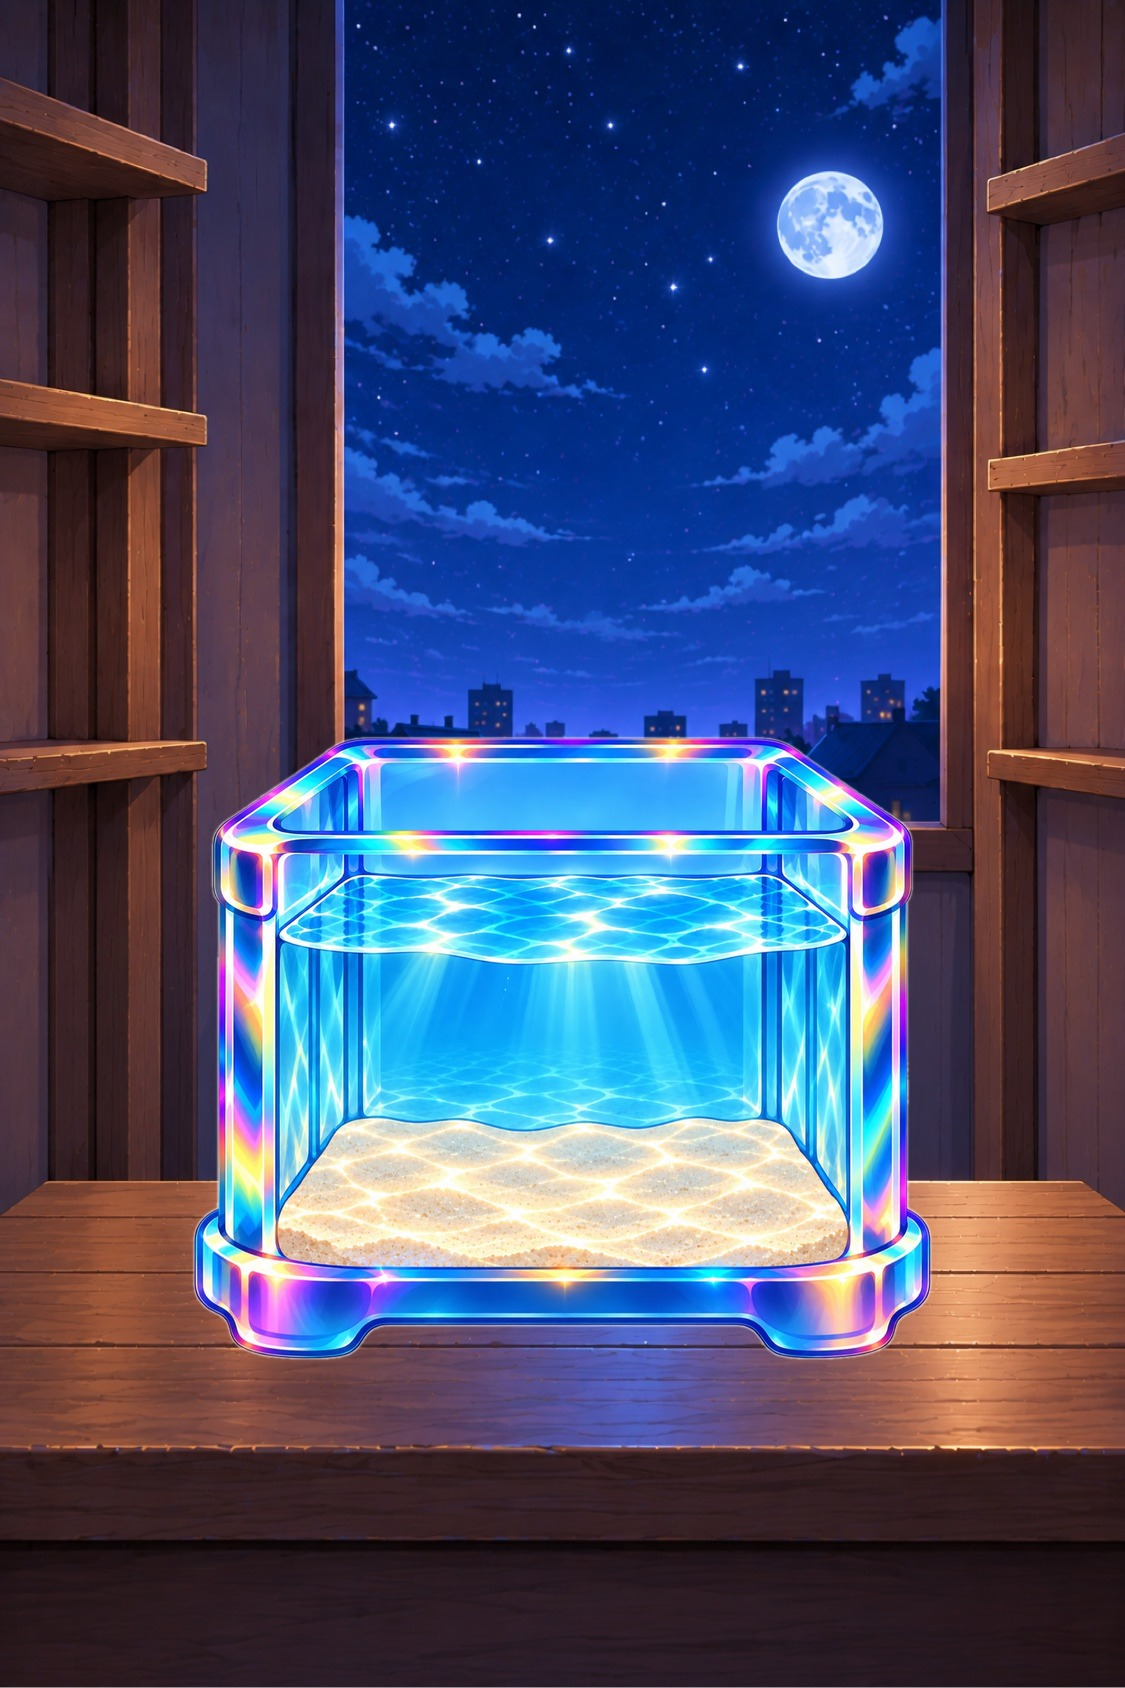
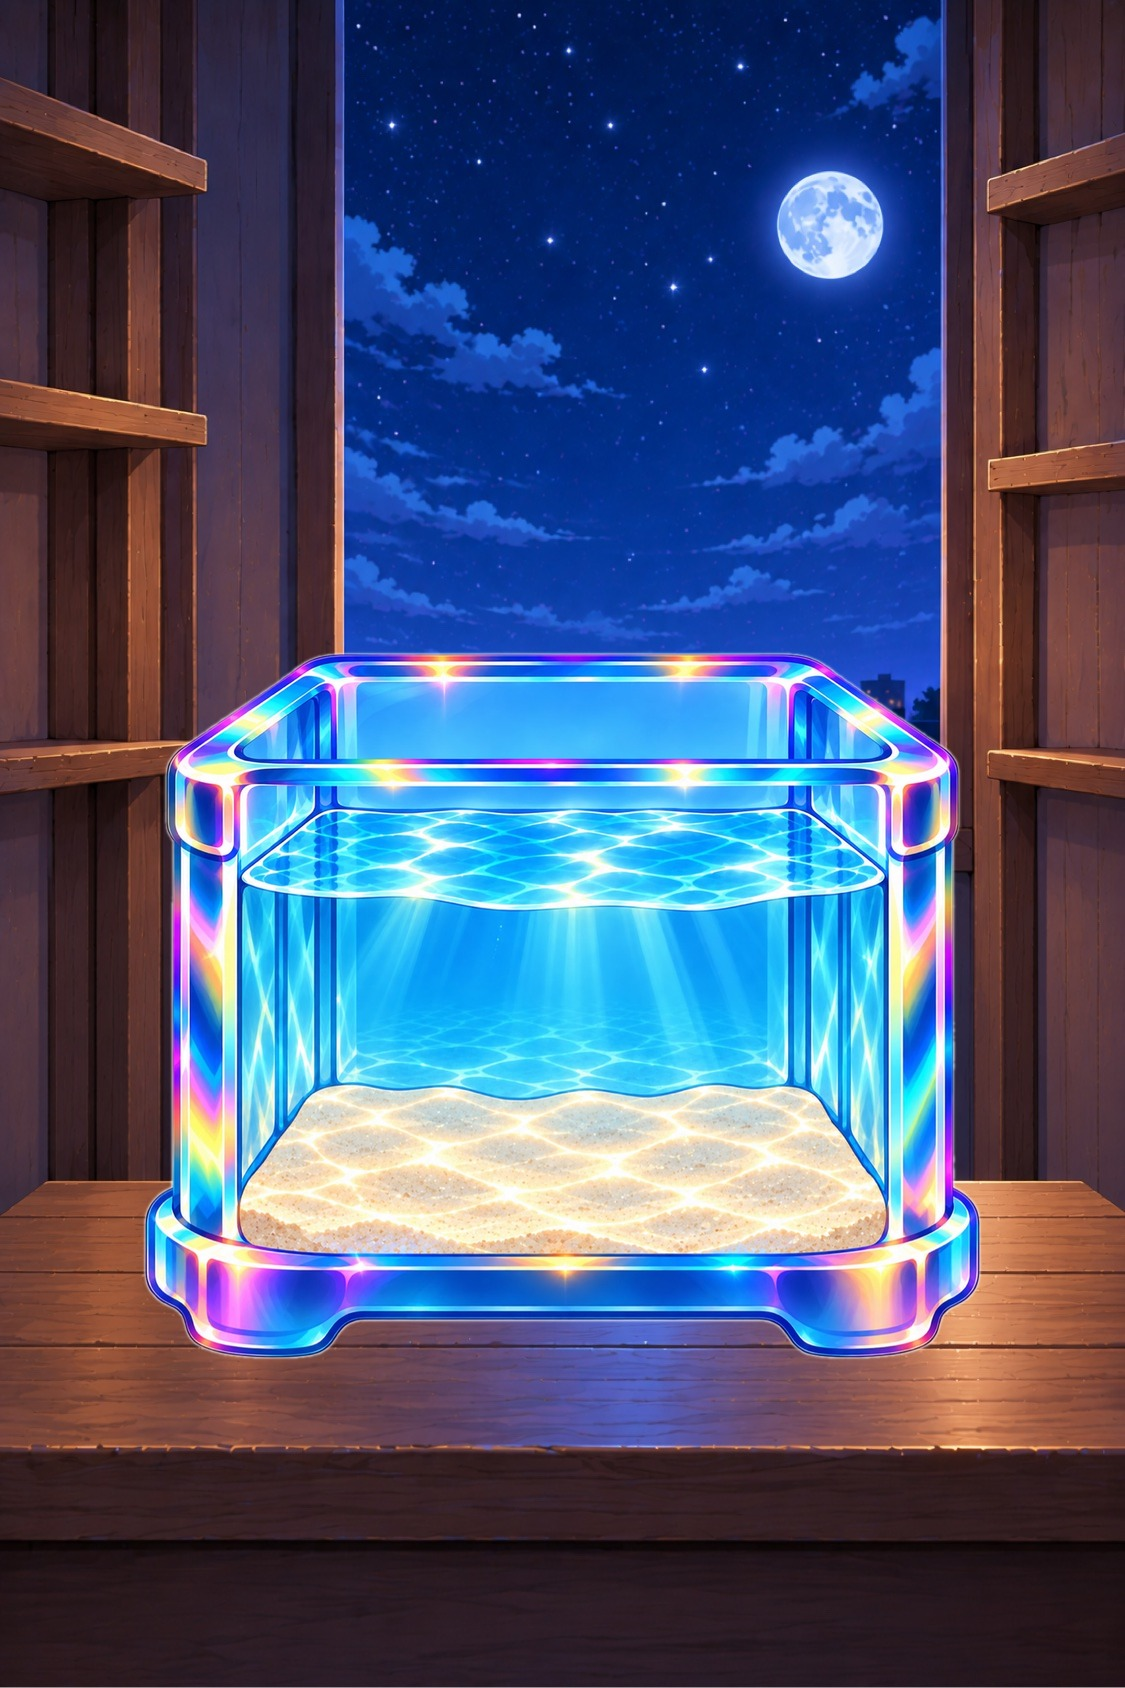
Small tank: bigger aquarium (850px)

Changed region(s): [[0.1244, 0.3697, 0.8711, 0.8318]]

diff --git a/public/js/data.js b/public/js/data.js
@@ -13,7 +13,7 @@ const DATA = {
   // measured glass rectangles, fractions of artwork (per API_CONTRACT.md §Glass)
   // small: two-layer composite (tank_small_bg.jpg + tank_small_fg.png via build_small_tank.py)
   GLASS: {
-    small:  { left: .258, right: .742, top: .546, bottom: .778 },
+    small:  { left: .225, right: .774, top: .511, bottom: .774 },
     medium: { left: .040, right: .960, top: .290, bottom: .800 },
     large:  { left: .036, right: .964, top: .320, bottom: .790 },
   },

diff --git a/build_small_tank.py b/build_small_tank.py
@@ -22,7 +22,7 @@ FG_FILE = os.path.join(TANKS, "tank_small_fg.png")
 OUT_FILE = os.path.join(TANKS, "tank_small.jpg")
 
 # Tank placement (tuned with user)
-TANK_W = 750
+TANK_W = 850
 TANK_BOTTOM_Y = 1365  # middle of table
 
 def main():
